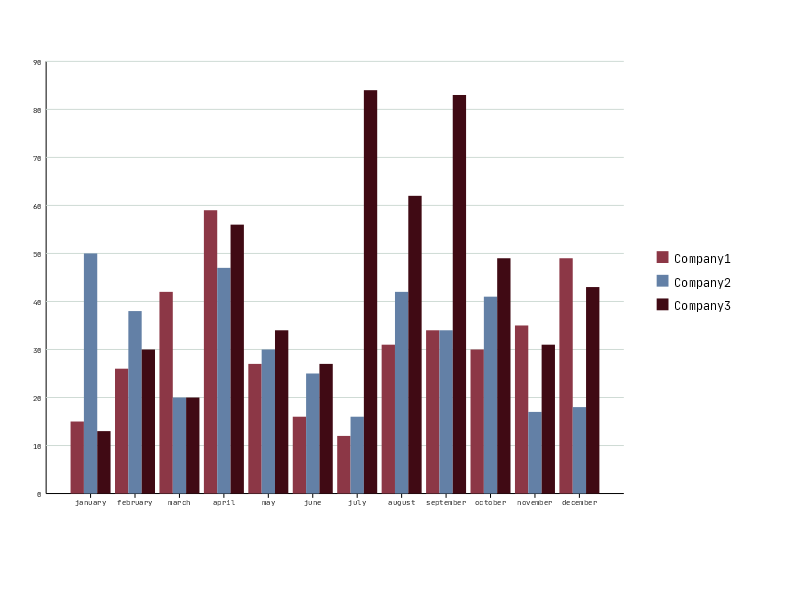
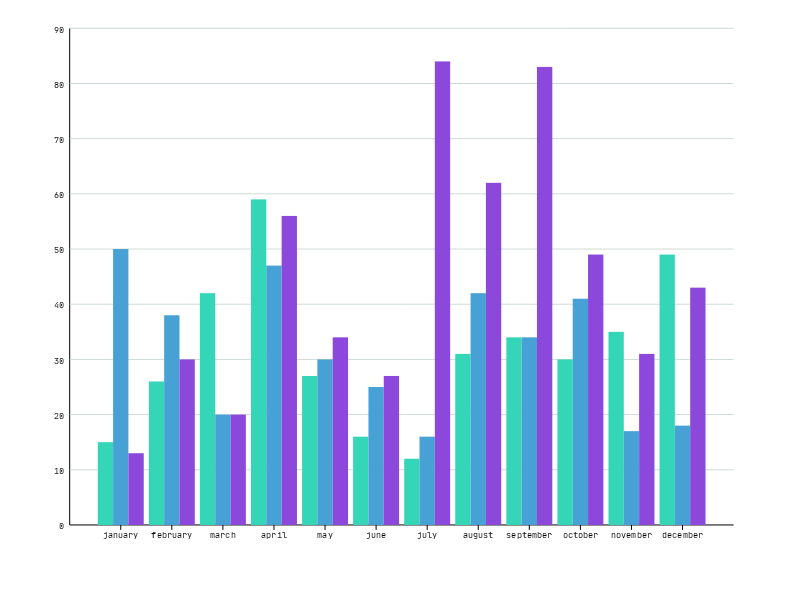
Written README.md

diff --git a/README.md b/README.md
@@ -2,3 +2,57 @@
 ## Проект 3: визуализация данных
 
 [Постановка задачи](./TASK.md)
+
+### Описание работы программы
+
+Программе в качестве аргумента командной строки передаётся имя файла
+с данными для построения диаграммы.
+
+Данные должны быть представлены в виде таблицы: первое слово в каждой 
+строке - это название строки. В первой строке содержатся названия столбцов,
+в остальных неотрицательные целые числа - данные. Во всех строках должно
+быть равное количество слов. (см. примеры)
+
+Если в файле больше пяти строк с данными, то отображены будут только
+первые пять. Также при построении круговой диаграммы используется только
+одна строка с данными, причем из неё берется не больше пяти первых значений.
+
+При запуске программы открываются два окна - в первом будет предложено
+выбрать требуемый формат диаграммы, для выбора необходимо кликнуть по
+кнопке с названием диаграммы, после чего появятся параметры диаграммы, а
+во втором окне требуемая диаграмма будет нарисована.
+
+Вы можете изменять параметры диаграммы - цветовую палитру и видимость 
+легенды, нажимая на соответствующие кнопки.
+
+Для сохранения диаграммы и завершения работы программы необходимо нажать
+кнопку "Сохранить и выйти". Диаграмма будет сохранена в файл output.png.
+
+### Примеры работы программы
+
+Файл data.txt содержит:
+
+<pre>
+Months january february march april may june july august september october november december
+Company1 15 26 42 59 27 16 12 31 34 30 35 49
+Company2 50 38 20 47 30 25 16 42 34 41 17 18
+Company3 13 30 20 56 34 27 84 62 83 49 31 43
+</pre>
+
+При запуске программы с аргументом data.txt откроется окно
+
+![image](./pictures/1.png)
+
+При нажатии на кнопку "Гистограмма" во втором окне
+появится диаграмма
+
+![image](./pictures/2.png)
+
+Изменение параметров:
+
+![image](./pictures/3.png)
+
+![image](./pictures/4.png)
+
+При нажатии на кнопку "Сохранить и выйти" программа завершается
+и сохраняет диаграмму в файл.
